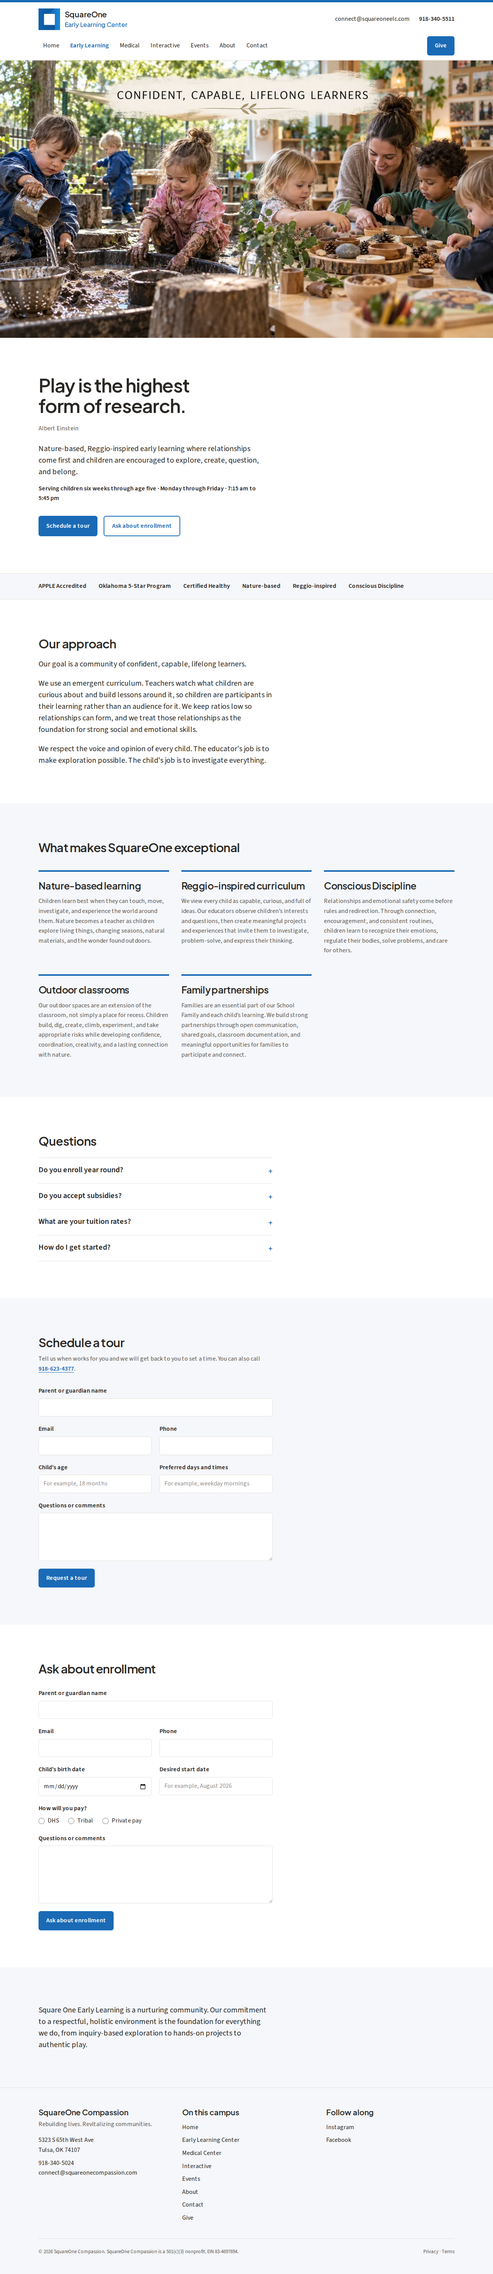
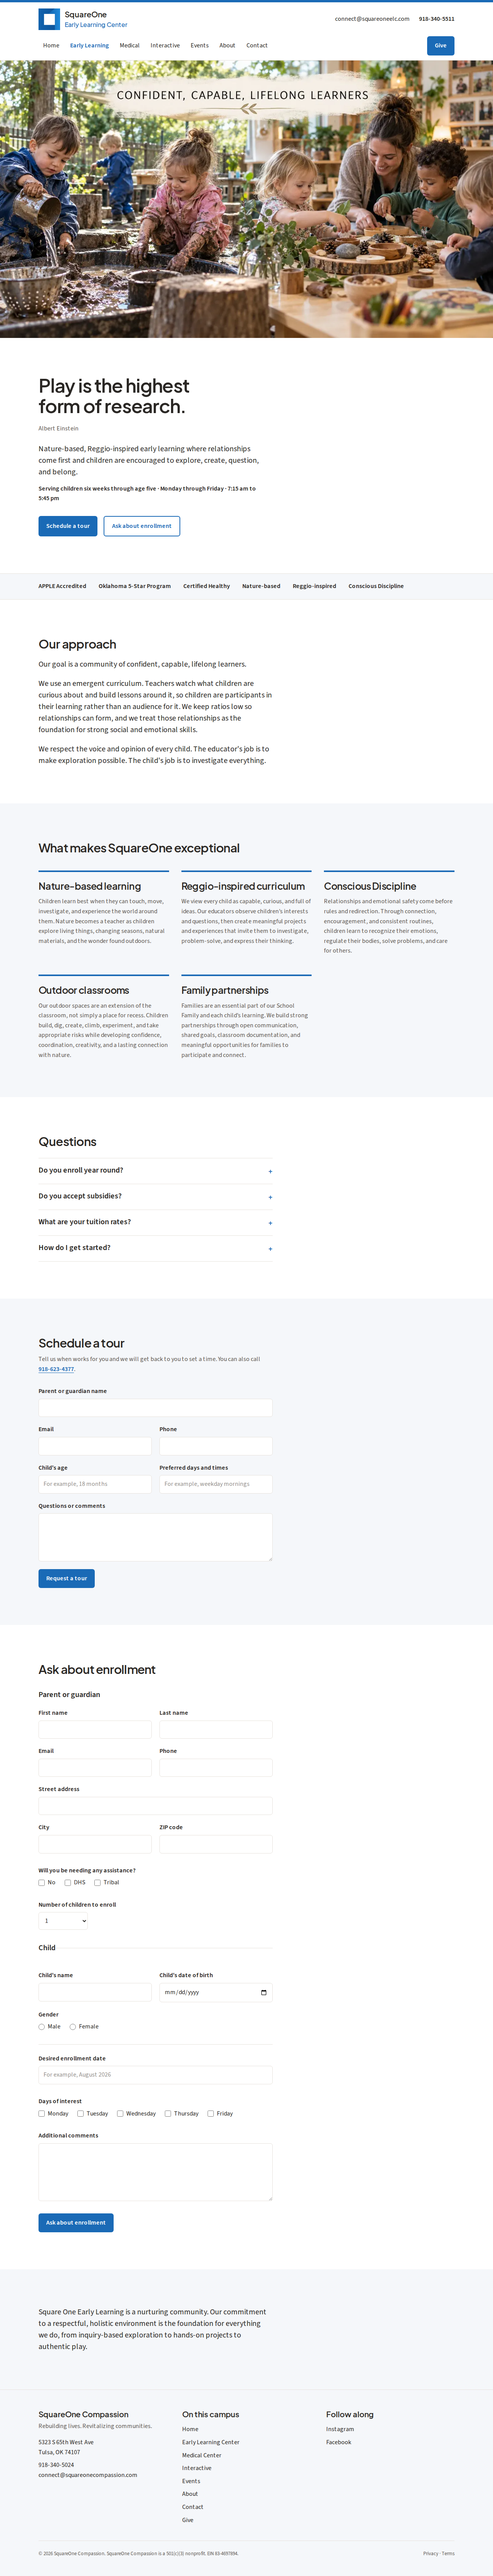
ELC page: restore the longer enrollment form with multiple children
Per Matt, the full form returns: parent or guardian first and last name,
email, phone, address, assistance needed, number of children (1 to 4)
with a name, date of birth, and gender block for each, desired
enrollment date, days of interest, and comments. The tour request form
stays. Validation verified with a two-child submission.

Claude-Session: https://claude.ai/code/session_01Dy1NBE1CDjARVuM4emY1ru

diff --git a/components/Form/EnrollmentForm.tsx b/components/Form/EnrollmentForm.tsx
@@ -1,11 +1,18 @@
 'use client'
 
+import { useState } from 'react'
 import { Honeypot } from './Honeypot'
-import { formToObject, useFormSubmit } from './useFormSubmit'
-import { FORM_SUCCESS, PAYMENT_OPTIONS } from '@/lib/forms'
+import { useFormSubmit } from './useFormSubmit'
+import { FORM_SUCCESS, ASSISTANCE_OPTIONS, GENDER_OPTIONS, DAY_OPTIONS, MAX_CHILDREN } from '@/lib/forms'
+
+type Child = { name: string; dob: string; gender: string }
+const emptyChild = (): Child => ({ name: '', dob: '', gender: '' })
 
 export function EnrollmentForm() {
   const { state, submit } = useFormSubmit()
+  const [children, setChildren] = useState<Child[]>([emptyChild()])
+  const [assistance, setAssistance] = useState<string[]>([])
+  const [days, setDays] = useState<string[]>([])
 
   if (state.status === 'success') {
     return (
@@ -15,64 +22,169 @@ export function EnrollmentForm() {
     )
   }
 
+  const toggle = (list: string[], set: (v: string[]) => void, value: string) => set(list.includes(value) ? list.filter((v) => v !== value) : [...list, value])
+  const setCount = (n: number) => setChildren((prev) => (n > prev.length ? [...prev, ...Array.from({ length: n - prev.length }, emptyChild)] : prev.slice(0, n)))
+  const updateChild = (i: number, patch: Partial<Child>) => setChildren((prev) => prev.map((c, j) => (j === i ? { ...c, ...patch } : c)))
+
   return (
     <form
-      className="relative max-w-prose space-y-5"
+      className="relative max-w-prose space-y-8"
       onSubmit={(e) => {
         e.preventDefault()
-        void submit({ kind: 'elc-enrollment', ...formToObject(e.currentTarget) })
+        const f = new FormData(e.currentTarget)
+        const text = (k: string) => String(f.get(k) ?? '')
+        void submit({
+          kind: 'elc-enrollment',
+          website: text('website'),
+          parentFirst: text('parentFirst'),
+          parentLast: text('parentLast'),
+          email: text('email'),
+          phone: text('phone'),
+          street: text('street'),
+          city: text('city'),
+          zip: text('zip'),
+          assistance,
+          children,
+          desiredStart: text('desiredStart'),
+          days,
+          comments: text('comments'),
+        })
       }}
     >
       <Honeypot />
-      <div className="grid gap-5 sm:grid-cols-2">
-        <div className="sm:col-span-2">
-          <label className="label" htmlFor="e-parent">
-            Parent or guardian name
-          </label>
-          <input className="field" id="e-parent" name="parentName" type="text" required autoComplete="name" />
+
+      <fieldset className="space-y-5">
+        <legend className="text-lg font-semibold">Parent or guardian</legend>
+        <div className="grid gap-5 sm:grid-cols-2">
+          <div>
+            <label className="label" htmlFor="e-first">
+              First name
+            </label>
+            <input className="field" id="e-first" name="parentFirst" type="text" required autoComplete="given-name" />
+          </div>
+          <div>
+            <label className="label" htmlFor="e-last">
+              Last name
+            </label>
+            <input className="field" id="e-last" name="parentLast" type="text" required autoComplete="family-name" />
+          </div>
+          <div>
+            <label className="label" htmlFor="e-email">
+              Email
+            </label>
+            <input className="field" id="e-email" name="email" type="email" required autoComplete="email" />
+          </div>
+          <div>
+            <label className="label" htmlFor="e-phone">
+              Phone
+            </label>
+            <input className="field" id="e-phone" name="phone" type="tel" required autoComplete="tel" />
+          </div>
         </div>
-        <div>
-          <label className="label" htmlFor="e-email">
-            Email
-          </label>
-          <input className="field" id="e-email" name="email" type="email" required autoComplete="email" />
+        <div className="grid gap-5 sm:grid-cols-2">
+          <div className="sm:col-span-2">
+            <label className="label" htmlFor="e-street">
+              Street address
+            </label>
+            <input className="field" id="e-street" name="street" type="text" autoComplete="street-address" />
+          </div>
+          <div>
+            <label className="label" htmlFor="e-city">
+              City
+            </label>
+            <input className="field" id="e-city" name="city" type="text" autoComplete="address-level2" />
+          </div>
+          <div>
+            <label className="label" htmlFor="e-zip">
+              ZIP code
+            </label>
+            <input className="field" id="e-zip" name="zip" type="text" inputMode="numeric" autoComplete="postal-code" />
+          </div>
         </div>
-        <div>
-          <label className="label" htmlFor="e-phone">
-            Phone
-          </label>
-          <input className="field" id="e-phone" name="phone" type="tel" required autoComplete="tel" />
-        </div>
-        <div>
-          <label className="label" htmlFor="e-dob">
-            Child&apos;s birth date
-          </label>
-          <input className="field" id="e-dob" name="childDob" type="date" required />
-        </div>
-        <div>
-          <label className="label" htmlFor="e-start">
-            Desired start date
-          </label>
-          <input className="field" id="e-start" name="desiredStart" type="text" required placeholder="For example, August 2026" />
-        </div>
-      </div>
+      </fieldset>
+
       <fieldset>
-        <legend className="label">How will you pay?</legend>
+        <legend className="label">Will you be needing any assistance?</legend>
         <div className="flex flex-wrap gap-x-6 gap-y-2">
-          {PAYMENT_OPTIONS.map((opt) => (
+          {ASSISTANCE_OPTIONS.map((opt) => (
             <label key={opt} className="inline-flex items-center gap-2">
-              <input type="radio" name="payment" value={opt} required className="h-4 w-4 accent-[var(--accent)]" />
+              <input type="checkbox" className="h-4 w-4 accent-[var(--accent)]" checked={assistance.includes(opt)} onChange={() => toggle(assistance, setAssistance, opt)} />
               {opt}
             </label>
           ))}
         </div>
       </fieldset>
+
+      <div>
+        <label className="label" htmlFor="e-count">
+          Number of children to enroll
+        </label>
+        <select className="field sm:max-w-32" id="e-count" value={children.length} onChange={(e) => setCount(Number(e.target.value))}>
+          {Array.from({ length: MAX_CHILDREN }, (_, i) => i + 1).map((n) => (
+            <option key={n} value={n}>
+              {n}
+            </option>
+          ))}
+        </select>
+      </div>
+
+      {children.map((c, i) => (
+        <fieldset key={i} className="space-y-5 border-t border-line pt-6">
+          <legend className="text-lg font-semibold">{children.length > 1 ? `Child ${i + 1}` : 'Child'}</legend>
+          <div className="grid gap-5 sm:grid-cols-2">
+            <div>
+              <label className="label" htmlFor={`e-child-${i}`}>
+                Child&apos;s name
+              </label>
+              <input className="field" id={`e-child-${i}`} type="text" required value={c.name} onChange={(e) => updateChild(i, { name: e.target.value })} />
+            </div>
+            <div>
+              <label className="label" htmlFor={`e-dob-${i}`}>
+                Child&apos;s date of birth
+              </label>
+              <input className="field" id={`e-dob-${i}`} type="date" required value={c.dob} onChange={(e) => updateChild(i, { dob: e.target.value })} />
+            </div>
+          </div>
+          <fieldset>
+            <legend className="label">Gender</legend>
+            <div className="flex flex-wrap gap-x-6 gap-y-2">
+              {GENDER_OPTIONS.map((g) => (
+                <label key={g} className="inline-flex items-center gap-2">
+                  <input type="radio" name={`gender-${i}`} className="h-4 w-4 accent-[var(--accent)]" checked={c.gender === g} onChange={() => updateChild(i, { gender: g })} />
+                  {g}
+                </label>
+              ))}
+            </div>
+          </fieldset>
+        </fieldset>
+      ))}
+
+      <div className="border-t border-line pt-6">
+        <label className="label" htmlFor="e-start">
+          Desired enrollment date
+        </label>
+        <input className="field" id="e-start" name="desiredStart" type="text" required placeholder="For example, August 2026" />
+      </div>
+
+      <fieldset>
+        <legend className="label">Days of interest</legend>
+        <div className="flex flex-wrap gap-x-6 gap-y-2">
+          {DAY_OPTIONS.map((d) => (
+            <label key={d} className="inline-flex items-center gap-2">
+              <input type="checkbox" className="h-4 w-4 accent-[var(--accent)]" checked={days.includes(d)} onChange={() => toggle(days, setDays, d)} />
+              {d}
+            </label>
+          ))}
+        </div>
+      </fieldset>
+
       <div>
         <label className="label" htmlFor="e-comments">
-          Questions or comments
+          Additional comments
         </label>
         <textarea className="field" id="e-comments" name="comments" rows={5} />
       </div>
+
       {state.status === 'error' ? (
         <p role="alert" className="text-red-700">
           {state.error}

diff --git a/lib/forms.ts b/lib/forms.ts
@@ -13,18 +13,32 @@ export const contactSchema = z.object({
   message: z.string().trim().min(1).max(5000),
 })
 
-export const PAYMENT_OPTIONS = ['DHS', 'Tribal', 'Private pay'] as const
+export const ASSISTANCE_OPTIONS = ['No', 'DHS', 'Tribal'] as const
+export const GENDER_OPTIONS = ['Male', 'Female'] as const
+export const DAY_OPTIONS = ['Monday', 'Tuesday', 'Wednesday', 'Thursday', 'Friday'] as const
+export const MAX_CHILDREN = 4
 
-// Enrollment interest form, shortened per the ELC director.
+export const childSchema = z.object({
+  name: z.string().trim().min(1).max(120),
+  dob: z.string().trim().regex(/^\d{4}-\d{2}-\d{2}$/, 'Use YYYY-MM-DD'),
+  gender: z.enum(GENDER_OPTIONS).optional().or(z.literal('')),
+})
+
+// Matches the enrollment wait list form on the old site.
 export const elcEnrollmentSchema = z.object({
   kind: z.literal('elc-enrollment'),
   website: z.string().max(0).optional().or(z.literal('')), // honeypot
-  parentName: z.string().trim().min(1).max(120),
+  parentFirst: z.string().trim().min(1).max(80),
+  parentLast: z.string().trim().min(1).max(80),
   email,
   phone: phone.min(7),
-  childDob: z.string().trim().regex(/^\d{4}-\d{2}-\d{2}$/, 'Use YYYY-MM-DD'),
+  street: optionalText(200),
+  city: optionalText(100),
+  zip: optionalText(20),
+  assistance: z.array(z.enum(ASSISTANCE_OPTIONS)).max(3).default([]),
+  children: z.array(childSchema).min(1).max(MAX_CHILDREN),
   desiredStart: z.string().trim().min(1).max(60),
-  payment: z.enum(PAYMENT_OPTIONS),
+  days: z.array(z.enum(DAY_OPTIONS)).max(5).default([]),
   comments: optionalText(5000),
 })
 

diff --git a/app/api/forms/route.ts b/app/api/forms/route.ts
@@ -24,7 +24,7 @@ export async function POST(req: Request) {
   }
   const { website: _honeypot, kind, ...payload } = parsed.data
   void _honeypot
-  const who = parsed.data.kind === 'contact' ? parsed.data.name : parsed.data.parentName
+  const who = parsed.data.kind === 'contact' ? parsed.data.name : parsed.data.kind === 'elc-tour' ? parsed.data.parentName : `${parsed.data.parentFirst} ${parsed.data.parentLast}`
   const subject = kind === 'contact' ? `Website contact from ${who}` : kind === 'elc-tour' ? `ELC tour request from ${who}` : `ELC enrollment interest from ${who}`
 
   const db = supabaseAdmin()

diff --git a/content/COPY.md b/content/COPY.md
@@ -182,7 +182,7 @@ Fill out the enrollment interest form below or call 918-623-4377 to schedule a t
 **Tour request form fields:** parent or guardian name, email, phone, child's age, preferred days and times, questions or comments. Intro: Tell us when works for you and we will get back to you to set a time. You can also call 918-623-4377.
 **Tour form success:** Thanks. We'll reach out within two business days to set up your tour.
 
-**Enrollment interest form fields** (shortened per the ELC director): parent or guardian name, email, phone, child's birth date, desired start date, how will you pay (DHS, Tribal, or private pay), questions or comments.
+**Enrollment interest form fields** (the longer form, restored per Matt; matches the old site's enrollment wait list form and supports several children): parent or guardian first and last name, email, phone, street address, city, ZIP code, "Will you be needing any assistance?" (No, DHS, Tribal), number of children to enroll (1 to 4), then per child: name, date of birth, gender (Male, Female); desired enrollment date; days of interest (Monday to Friday); additional comments.
 **Form success:** Thanks. We'll reach out within two business days to schedule a tour.
 
 **Closing:** Square One Early Learning is a nurturing community. Our commitment to a respectful, holistic environment is the foundation for everything we do, from inquiry-based exploration to hands-on projects to authentic play.
